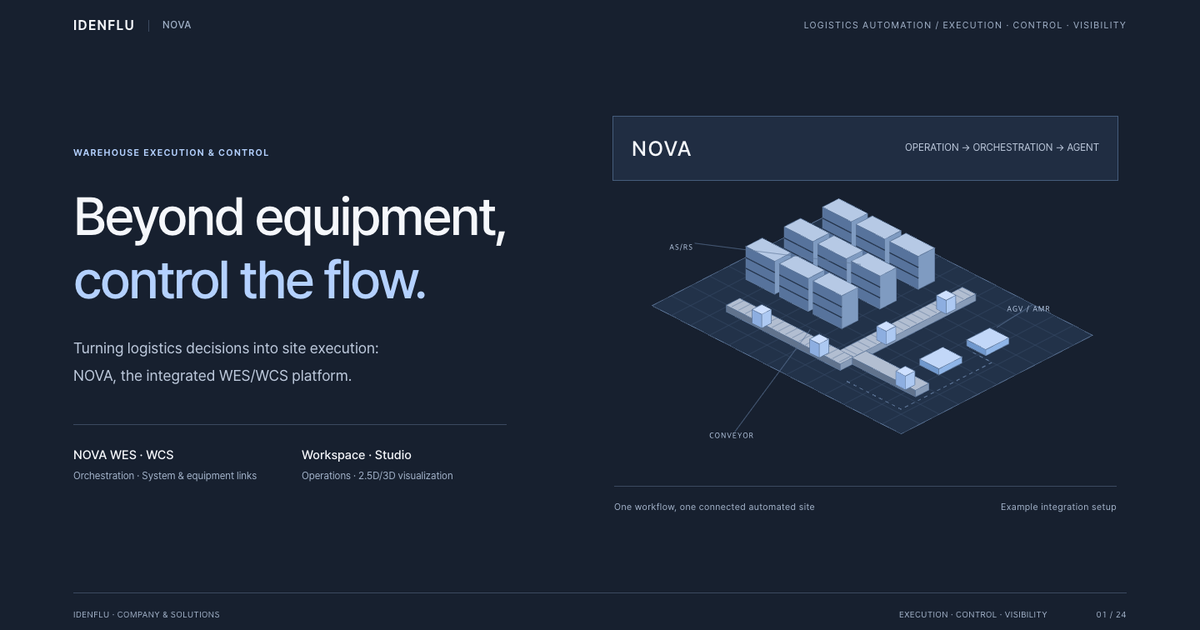
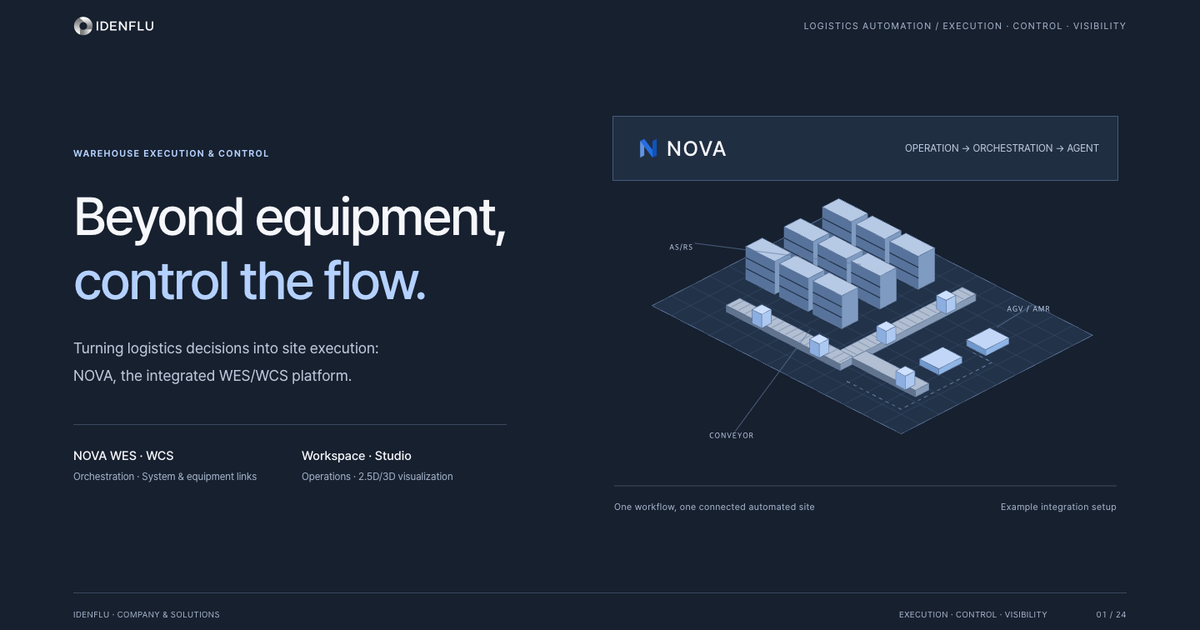
feat: add brochure branding, slide shortcuts and locale validation

diff --git a/src/styles.css b/src/styles.css
@@ -67,7 +67,7 @@ button { font: inherit; }
 .hero-products small { display: block; margin-top: 4px; color: var(--subtle); font-size: 12px; }
 .hero-visual { position: relative; padding: 24px 0; }
 .platform-label { display: flex; align-items: center; justify-content: space-between; margin: 0 10px; padding: 18px 22px; border: 1px solid #455c7b; background: #202d42; }
-.platform-label strong { font-size: 25px; letter-spacing: .06em; font-weight: 500; }
+.platform-label strong { display: inline-flex; align-items: center; gap: 2px; font-size: 25px; letter-spacing: .06em; font-weight: 500; }
 .platform-label span { color: var(--muted); font-size: 12px; }
 .warehouse-scene { display: block; width: 100%; height: auto; }
 .scene-caption { display: flex; justify-content: space-between; margin: 0 12px; padding-top: 16px; border-top: 1px solid var(--line); color: var(--subtle); font-size: 11px; letter-spacing: .04em; }
@@ -220,7 +220,6 @@ button { font: inherit; }
 .slide-controls button:hover:not(:disabled) { background: #eaf0fa; }
 .slide-controls button:disabled { color: #a9b4c6; cursor: default; }
 .slide-controls svg { width: 18px; height: 18px; }
-.slide-controls span { min-width: 54px; color: #5f708b; font-size: 12px; text-align: center; font-variant-numeric: tabular-nums; }
 
 /* Detailed product, integration, and evaluation chapters. */
 .suite-card { padding: 32px; border: 1px solid var(--line); }
@@ -351,8 +350,9 @@ button { font: inherit; }
 .example-description { margin-top: 10px; color: var(--muted); font-size: 14px; line-height: 1.8; }
 
 /* Fullscreen and slide overview controls. */
-.slide-controls .position-button { width: 64px; border-radius: 8px; }
-.slide-controls .position-button span { min-width: 0; font-size: 12px; }
+.slide-controls .position-button { width: 80px; border-radius: 8px; align-content: center; gap: 2px; line-height: 1.2; }
+.position-label { font-size: 12px; font-weight: 600; }
+#slide-position { color: #5f708b; font-size: 11px; font-variant-numeric: tabular-nums; }
 .control-divider { width: 1px; height: 18px; margin: 0 5px; background: #d1dae8; }
 .slide-controls .language-button { display: grid; place-items: center; width: 44px; height: 44px; border-radius: 50%; color: #273c5c; font-size: 12px; font-weight: 600; letter-spacing: .04em; text-decoration: none; }
 .slide-controls .language-button:hover { background: #eaf0fa; }
@@ -360,11 +360,17 @@ button { font: inherit; }
 #fullscreen-toggle[aria-pressed="true"] .fullscreen-enter { display: none; }
 #fullscreen-toggle[aria-pressed="true"] .fullscreen-exit { display: block; }
 .overview-dialog { width: min(1180px, calc(100% - 32px)); max-height: min(780px, calc(100dvh - 48px)); padding: 26px; border: 1px solid #d1dae8; border-radius: 12px; background: #fff; color: #1e2b3e; }
+.overview-dialog[open] { display: flex; flex-direction: column; }
 .overview-dialog::backdrop { background: rgb(17 27 43 / 65%); }
-.overview-heading { display: flex; justify-content: space-between; align-items: center; gap: 20px; margin-bottom: 20px; }
+.overview-heading { display: flex; flex-shrink: 0; justify-content: space-between; align-items: center; gap: 20px; margin-bottom: 16px; }
 .overview-heading h2 { font-size: 24px; }
 .overview-heading p { margin-top: 4px; color: #6b788a; font-size: 12px; }
-.overview-close { width: 44px; height: 44px; padding: 0; border: 1px solid #dce3ed; border-radius: 50%; background: #fff; color: #5e6d80; font-size: 26px; cursor: pointer; }
+.overview-close { flex: none; width: 44px; height: 44px; padding: 0; border: 1px solid #dce3ed; border-radius: 50%; background: #fff; color: #5e6d80; font-size: 26px; cursor: pointer; }
+.overview-shortcuts { display: flex; flex: none; flex-wrap: wrap; gap: 8px; margin-bottom: 16px; }
+.overview-shortcuts:not(:has(button)) { display: none; }
+.overview-shortcuts button { min-height: 44px; padding: 8px 12px; border: 1px solid #cad8ed; border-radius: 6px; background: #f0f5ff; color: #273c5c; font-size: 13px; font-weight: 600; cursor: pointer; }
+.overview-shortcuts button:hover { border-color: #91b4e8; background: #eaf2ff; }
+.overview-scroll { margin: -8px; padding: 8px; overflow-y: auto; }
 .overview-grid { display: grid; grid-template-columns: repeat(4,minmax(0,1fr)); gap: 12px; }
 .overview-item { display: flex; align-items: flex-start; gap: 12px; min-height: 84px; padding: 16px; border: 1px solid #dce3ed; border-radius: 5px; background: #f8faff; color: #334762; font-size: 13px; line-height: 1.6; text-align: left; cursor: pointer; }
 .overview-item:hover { border-color: #91b4e8; background: #eff5ff; }

diff --git a/src/template.html b/src/template.html
@@ -27,14 +27,22 @@
 {{{slides}}}</main>
 <nav class="slide-controls" aria-label="{{ui.controls}}">
   <button id="previous-slide" type="button" aria-label="{{ui.previous}}" title="{{ui.previous}} (← / Page Up)" disabled><svg viewBox="0 0 24 24" fill="none" stroke="currentColor" stroke-width="1.5" aria-hidden="true"><path d="m14 6-6 6 6 6"/></svg></button>
-  <button id="open-overview" class="position-button" type="button" aria-label="{{ui.overview}}" aria-haspopup="dialog" title="{{ui.overview}} (O)"><span id="slide-position" aria-live="polite" aria-atomic="true"></span></button>
+  <button id="open-overview" class="position-button" type="button" aria-label="{{ui.overview}}" aria-haspopup="dialog" aria-controls="slide-overview" title="{{ui.overview}} (O)">
+    <span class="position-label">{{ui.overviewButton}}</span>
+    <span id="slide-position" aria-live="polite" aria-atomic="true"></span>
+  </button>
   <button id="next-slide" type="button" aria-label="{{ui.next}}" title="{{ui.next}} (→ / Page Down)"><svg viewBox="0 0 24 24" fill="none" stroke="currentColor" stroke-width="1.5" aria-hidden="true"><path d="m10 6 6 6-6 6"/></svg></button>
   <i class="control-divider" aria-hidden="true"></i>
   <button id="fullscreen-toggle" type="button" aria-label="{{ui.fullscreen}}" aria-pressed="false" title="{{ui.fullscreen}} (F)"><svg class="fullscreen-enter" viewBox="0 0 24 24" fill="none" stroke="currentColor" stroke-width="1.5" aria-hidden="true"><path d="M8 4H4v4m12-4h4v4M4 16v4h4m12-4v4h-4"/></svg><svg class="fullscreen-exit" viewBox="0 0 24 24" fill="none" stroke="currentColor" stroke-width="1.5" aria-hidden="true"><path d="M4 8h4V4m12 4h-4V4M8 20v-4H4m12 4v-4h4"/></svg></button>
 {{{languageSwitch}}}</nav>
 <dialog id="slide-overview" class="overview-dialog" aria-labelledby="overview-title">
   <div class="overview-heading"><div><h2 id="overview-title">{{ui.overviewTitle}}</h2><p>{{ui.overviewHint}}</p></div><button id="close-overview" class="overview-close" type="button" aria-label="{{ui.overviewClose}}">×</button></div>
-  <div id="overview-grid" class="overview-grid"></div>
+  <div class="overview-shortcuts">
+    <button type="button" data-overview-target="positioning-title">{{ui.overviewProducts}}</button>
+    <button type="button" data-overview-target="references-title">{{ui.overviewReferences}}</button>
+    <button type="button" data-overview-target="contact-title">{{ui.overviewContact}}</button>
+  </div>
+  <div class="overview-scroll"><div id="overview-grid" class="overview-grid"></div></div>
 </dialog>
 <div id="viewer-message" class="viewer-message" role="status" hidden></div>
 <script id="deck-i18n" type="application/json">{{{i18n}}}</script>

diff --git a/src/slides/ko/01-cover.html b/src/slides/ko/01-cover.html
@@ -1,12 +1,12 @@
 <section class="page theme-dark" aria-labelledby="cover-title" tabindex="-1" aria-roledescription="슬라이드">
-  <header class="topline"><span class="brand">IDENFLU<i aria-hidden="true"></i><b>NOVA</b></span><span>LOGISTICS AUTOMATION / EXECUTION · CONTROL · VISIBILITY</span></header>
+  <header class="topline"><img src="{{base}}idenflu-ci-mono.png" width="100" height="26" alt="IDENFLU"><span>LOGISTICS AUTOMATION / EXECUTION · CONTROL · VISIBILITY</span></header>
 
   <div class="hero">
     <div class="hero-copy"><p class="kicker">WAREHOUSE EXECUTION &amp; CONTROL</p><h1 id="cover-title">설비를 넘어,<br><em>흐름을 제어하다.</em></h1>
       <p class="lead">물류 운영의 판단을 현장 실행으로 연결하는<br>WES/WCS 통합 플랫폼, NOVA.</p>
       <div class="hero-products"><div><strong>NOVA WES · WCS</strong><small>작업 실행 조율 · 시스템·설비 연동</small></div><div><strong>Workspace · Studio</strong><small>운영 관리 · 2.5D·3D 시각화</small></div></div>
     </div>
-    <figure class="hero-visual"><div class="platform-label"><strong>NOVA</strong><span>OPERATION → ORCHESTRATION → AGENT</span></div><!--@include partials/warehouse-scene-dark.svg aria-label="자동창고 랙과 컨베이어, 무인 이송 장비가 연결된 물류센터 배치 예시"--><figcaption class="scene-caption"><span>하나의 작업 흐름, 연결된 자동화 현장</span><span>연동 구성 예시</span></figcaption></figure>
+    <figure class="hero-visual"><div class="platform-label"><strong><img src="{{base}}nova-symbol.png" width="40" height="40" alt="">NOVA</strong><span>OPERATION → ORCHESTRATION → AGENT</span></div><!--@include partials/warehouse-scene-dark.svg aria-label="자동창고 랙과 컨베이어, 무인 이송 장비가 연결된 물류센터 배치 예시"--><figcaption class="scene-caption"><span>하나의 작업 흐름, 연결된 자동화 현장</span><span>연동 구성 예시</span></figcaption></figure>
   </div>
   <footer class="footer"><span>IDENFLU · COMPANY &amp; SOLUTIONS</span><span class="footer-topic">EXECUTION · CONTROL · VISIBILITY</span><span class="footer-page"></span></footer>
 </section>

diff --git a/src/slides/en/01-cover.html b/src/slides/en/01-cover.html
@@ -1,12 +1,12 @@
 <section class="page theme-dark" aria-labelledby="cover-title" tabindex="-1" aria-roledescription="slide">
-  <header class="topline"><span class="brand">IDENFLU<i aria-hidden="true"></i><b>NOVA</b></span><span>LOGISTICS AUTOMATION / EXECUTION · CONTROL · VISIBILITY</span></header>
+  <header class="topline"><img src="{{base}}idenflu-ci-mono.png" width="100" height="26" alt="IDENFLU"><span>LOGISTICS AUTOMATION / EXECUTION · CONTROL · VISIBILITY</span></header>
 
   <div class="hero">
     <div class="hero-copy"><p class="kicker">WAREHOUSE EXECUTION &amp; CONTROL</p><h1 id="cover-title">Beyond equipment,<br><em>control the flow.</em></h1>
       <p class="lead">Turning logistics decisions into site execution:<br>NOVA, the integrated WES/WCS platform.</p>
       <div class="hero-products"><div><strong>NOVA WES · WCS</strong><small>Orchestration · System &amp; equipment links</small></div><div><strong>Workspace · Studio</strong><small>Operations · 2.5D/3D visualization</small></div></div>
     </div>
-    <figure class="hero-visual"><div class="platform-label"><strong>NOVA</strong><span>OPERATION → ORCHESTRATION → AGENT</span></div><!--@include partials/warehouse-scene-dark.svg aria-label="Example distribution center layout linking AS/RS racks, conveyors and automated transport vehicles"--><figcaption class="scene-caption"><span>One workflow, one connected automated site</span><span>Example integration setup</span></figcaption></figure>
+    <figure class="hero-visual"><div class="platform-label"><strong><img src="{{base}}nova-symbol.png" width="40" height="40" alt="">NOVA</strong><span>OPERATION → ORCHESTRATION → AGENT</span></div><!--@include partials/warehouse-scene-dark.svg aria-label="Example distribution center layout linking AS/RS racks, conveyors and automated transport vehicles"--><figcaption class="scene-caption"><span>One workflow, one connected automated site</span><span>Example integration setup</span></figcaption></figure>
   </div>
   <footer class="footer"><span>IDENFLU · COMPANY &amp; SOLUTIONS</span><span class="footer-topic">EXECUTION · CONTROL · VISIBILITY</span><span class="footer-page"></span></footer>
 </section>

diff --git a/src/slides/ko/24-contact.html b/src/slides/ko/24-contact.html
@@ -1,5 +1,5 @@
 <section class="page theme-dark" aria-labelledby="contact-title" tabindex="-1" aria-roledescription="슬라이드" hidden>
-  <header class="topline"><span class="brand">IDENFLU<i aria-hidden="true"></i><b>NOVA</b></span><span>LOGISTICS AUTOMATION / LET’S CONNECT YOUR OPERATIONS</span></header>
+  <header class="topline"><img src="{{base}}idenflu-ci-mono.png" width="100" height="26" alt="IDENFLU"><span>LOGISTICS AUTOMATION / LET’S CONNECT YOUR OPERATIONS</span></header>
 
   <div class="closing-layout"><div class="closing-copy"><p class="kicker">START WITH YOUR OPERATION</p><h2 id="contact-title">개선할 업무부터,<br>함께 이야기해 주세요.</h2><p class="lead">기존 현장 개선부터 자동화 확장, 신규 구축까지.<br>현장의 운영 조건에 맞는 적용 범위를 함께 살펴봅니다.</p><a class="contact-link" href="mailto:sales@idenflu.com">sales@idenflu.com <span aria-hidden="true">↗</span></a><p class="company-copy">㈜아이덴플루 · <a href="https://idenflu.com" target="_blank" rel="noopener noreferrer">idenflu.com ↗</a><br>서울 구로구 디지털로 300, 12층 1248호</p></div><aside class="brief-panel"><p>DISCOVERY CHECKLIST</p><div class="brief-item"><span class="number">01</span><div><h3>현재 운영의 과제</h3><p>대기·병목·수동 개입이 발생하는 업무와 공정</p></div></div><div class="brief-item"><span class="number">02</span><div><h3>연결할 시스템과 설비</h3><p>기존 WMS·ERP·MES, 설비·제어기·관제 구성</p></div></div><div class="brief-item"><span class="number">03</span><div><h3>우선 적용 범위</h3><p>먼저 개선할 구간과 확장 계획, 확인할 운영 지표</p></div></div><div class="expertise-line"><span>시스템 구축</span><span>시스템·설비 연동</span><span>운영 지원·유지보수</span></div></aside></div>
   <footer class="footer"><span>IDENFLU · COMPANY &amp; SOLUTIONS</span><span class="footer-topic">LET’S CONNECT YOUR OPERATIONS</span><span class="footer-page"></span></footer>

diff --git a/src/slides/en/24-contact.html b/src/slides/en/24-contact.html
@@ -1,5 +1,5 @@
 <section class="page theme-dark" aria-labelledby="contact-title" tabindex="-1" aria-roledescription="slide" hidden>
-  <header class="topline"><span class="brand">IDENFLU<i aria-hidden="true"></i><b>NOVA</b></span><span>LOGISTICS AUTOMATION / LET’S CONNECT YOUR OPERATIONS</span></header>
+  <header class="topline"><img src="{{base}}idenflu-ci-mono.png" width="100" height="26" alt="IDENFLU"><span>LOGISTICS AUTOMATION / LET’S CONNECT YOUR OPERATIONS</span></header>
 
   <div class="closing-layout"><div class="closing-copy"><p class="kicker">START WITH YOUR OPERATION</p><h2 id="contact-title">Start with the process<br>you want to improve.</h2><p class="lead">From improving existing sites to expanding automation or building new.<br>We will scope it together around your operating conditions.</p><a class="contact-link" href="mailto:sales@idenflu.com">sales@idenflu.com <span aria-hidden="true">↗</span></a><p class="company-copy">IDENFLU Co., Ltd. · <a href="https://idenflu.com" target="_blank" rel="noopener noreferrer">idenflu.com ↗</a><br>Room 1248, 12F, 300 Digital-ro, Guro-gu, Seoul, Korea</p></div><aside class="brief-panel"><p>DISCOVERY CHECKLIST</p><div class="brief-item"><span class="number">01</span><div><h3>Current challenges</h3><p>Processes with waits, bottlenecks or manual work</p></div></div><div class="brief-item"><span class="number">02</span><div><h3>Systems and equipment to connect</h3><p>Existing WMS/ERP/MES, equipment, controllers, fleet systems</p></div></div><div class="brief-item"><span class="number">03</span><div><h3>Initial scope</h3><p>Areas to improve first, expansion plans, metrics to track</p></div></div><div class="expertise-line"><span>System implementation</span><span>System &amp; equipment integration</span><span>Support and maintenance</span></div></aside></div>
   <footer class="footer"><span>IDENFLU · COMPANY &amp; SOLUTIONS</span><span class="footer-topic">LET’S CONNECT YOUR OPERATIONS</span><span class="footer-page"></span></footer>

diff --git a/src/viewer.js b/src/viewer.js
@@ -23,6 +23,21 @@
   });
   position.textContent = pageLabel(current);
 
+  function jumpFromOverview(index) {
+    // Deliberate jumps get their own history entry.
+    showSlide(index, { historyMode: 'push' });
+    overview.close();
+  }
+
+  overview.querySelectorAll('[data-overview-target]').forEach(button => {
+    const index = slides.findIndex(slide => slide.getAttribute('aria-labelledby') === button.dataset.overviewTarget);
+    if (index === -1) {
+      button.remove();
+      return;
+    }
+    button.addEventListener('click', () => jumpFromOverview(index));
+  });
+
   const overviewItems = slides.map((slide, index) => {
     const item = document.createElement('button');
     item.type = 'button';
@@ -35,8 +50,7 @@
     heading.querySelectorAll('br').forEach(br => br.replaceWith(' '));
     title.textContent = heading.textContent;
     item.append(number, title);
-    // Jumping from the overview is a deliberate move, so it gets its own history entry.
-    item.addEventListener('click', () => { showSlide(index, { historyMode: 'push' }); overview.close(); });
+    item.addEventListener('click', () => jumpFromOverview(index));
     overviewGrid.append(item);
     return item;
   });
@@ -79,7 +93,6 @@
   function openOverview() {
     buildThumbnails();
     overview.showModal();
-    overviewItems[current].focus({ preventScroll: true });
     overviewItems[current].scrollIntoView({ block: 'nearest' });
   }
   overviewButton.addEventListener('click', openOverview);

diff --git a/README.md b/README.md
@@ -41,12 +41,13 @@ dist/                  빌드 결과 (git에 올리지 않음)
 | --- | --- |
 | 이전 / 다음 슬라이드 | ← → · Page Up / Page Down · Space (Shift+Space: 이전) · 휠 · 스와이프 |
 | 처음 / 마지막 | Home / End |
-| 목차 (썸네일) | O 또는 하단 쪽 번호 버튼 |
+| 목차 (썸네일) | O 또는 하단 목차 버튼 |
 | 전체화면 | F |
 | 언어 전환 | 하단 EN / KO 버튼 (보던 슬라이드 그대로 열림) |
 | 특정 슬라이드 링크 | `index.html#slide-7`, `en/index.html#slide-7` |
 
-- 화면 폭 900px 이하에서는 세로로 스크롤되는 읽기 모드로 바뀌고, 목차는 썸네일 없이 제목만 보여줍니다.
+- 목차 상단에서 제품 구성, 도입 사례, 문의 슬라이드로 바로 이동할 수 있습니다.
+- 화면 폭 900px 이하에서는 세로로 스크롤되는 읽기 모드로 바뀌고, 목차 목록에는 제목만 표시됩니다.
 - 슬라이드를 차례로 넘길 때는 브라우저 기록이 쌓이지 않습니다. 목차에서 이동하거나 Home/End로 점프할 때만 기록이 남으므로, 뒤로가기는 직전에 보던 위치나 덱 이전 페이지로 돌아갑니다.
 - 브라우저 인쇄(⌘P / Ctrl+P)로 슬라이드 한 장당 한 쪽(1440×810)인 PDF를 만들 수 있습니다.
 
@@ -67,7 +68,7 @@ dist/                  빌드 결과 (git에 올리지 않음)
 - 목차의 제목은 각 슬라이드의 첫 `h1`/`h2`에서 가져옵니다.
 - 어두운 배경 슬라이드는 `class="page theme-dark"`를 씁니다.
 - 슬라이드는 1440×810 기준으로 디자인하고 화면 크기에 맞춰 축소·확대됩니다. 내용이 이 높이를 넘지 않는지 확인하세요. 영어 문장은 한국어보다 길어지기 쉬우니 특히 주의합니다.
-- **한국어와 영어 파일은 구조를 같게 유지합니다.** 한쪽에 슬라이드를 추가하거나 마크업을 바꾸면 다른 쪽도 같은 번호·파일명으로 맞춰 주세요.
+- **언어별 슬라이드 파일명 목록을 일치시킵니다.** 빌드는 기본 언어를 기준으로 각 번역의 누락·추가 파일을 검사합니다. 슬라이드를 추가하거나 순서를 바꿀 때는 모든 언어에서 같은 파일명을 사용하세요.
 
 ### 공용 일러스트 (partials)
 
